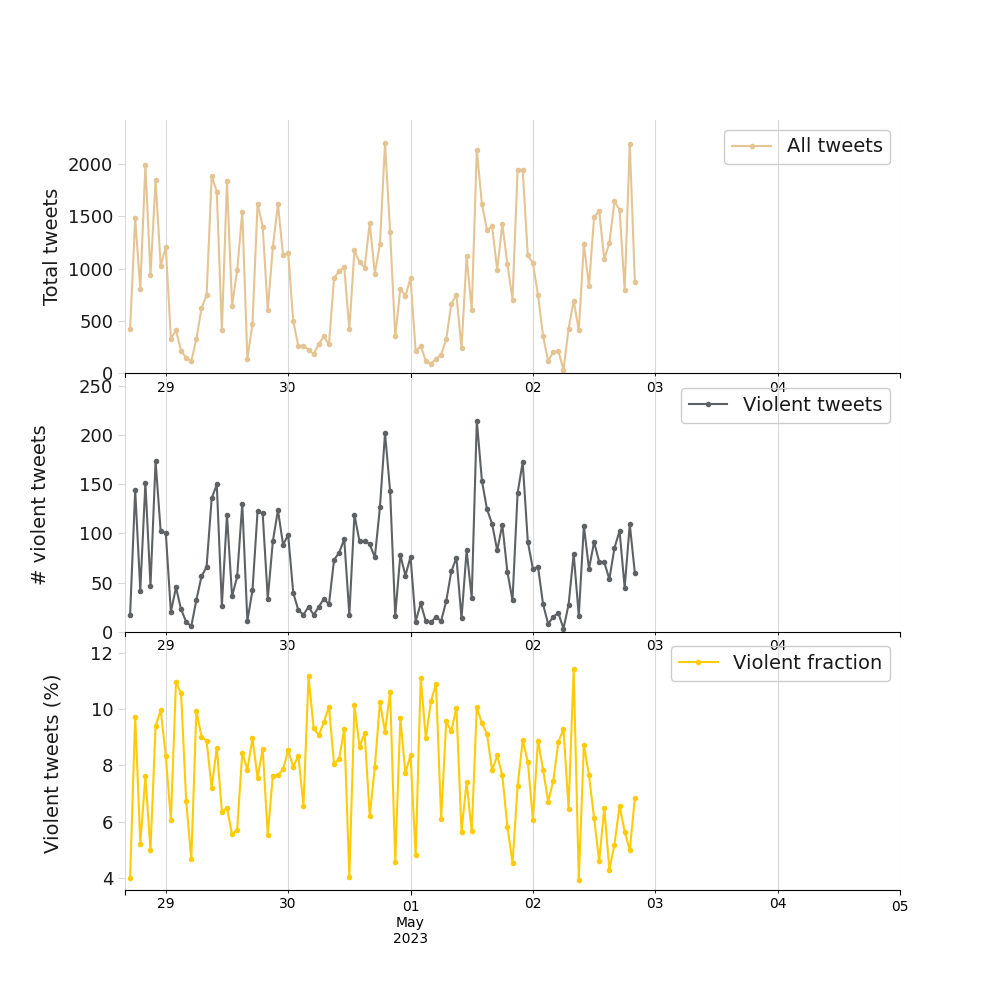
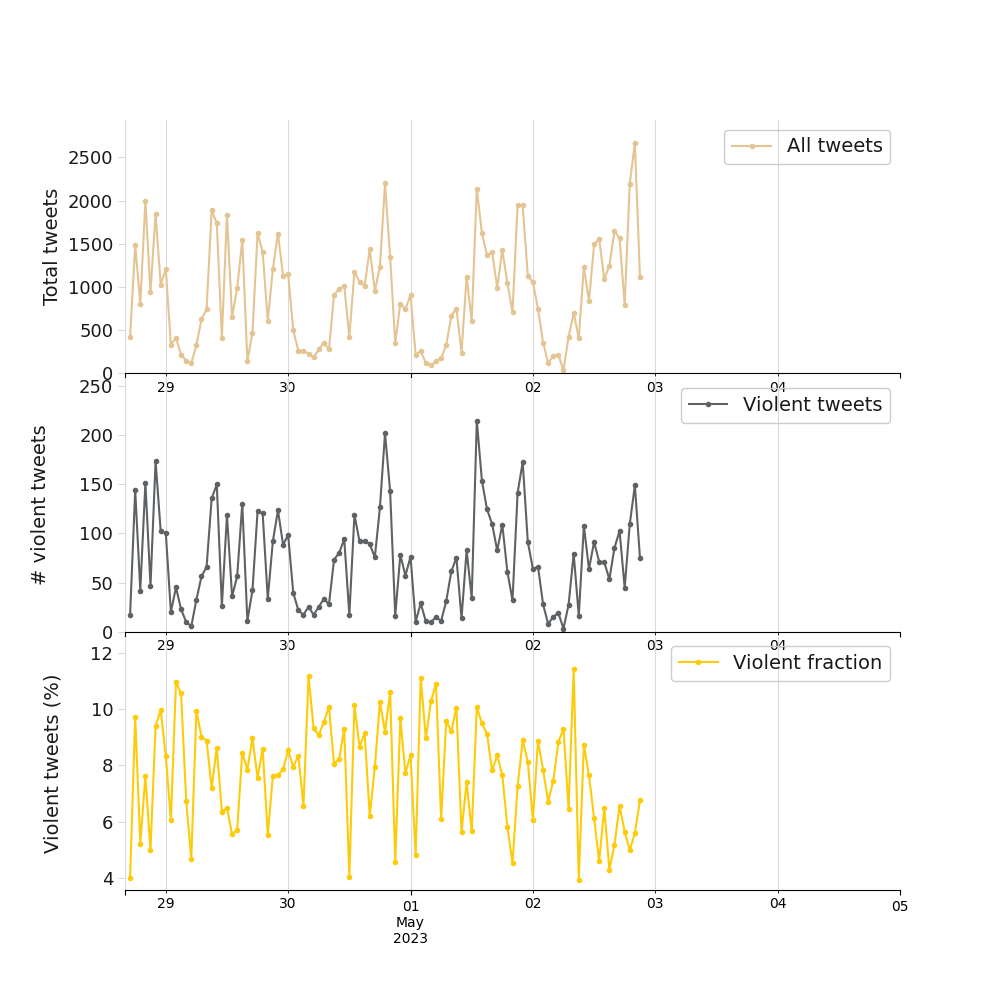
Auto-update webpage data >> 2023-05-02_21:00:08

Changed region(s): [[0.062, 0.124, 0.651, 0.372], [0.62, 0.496, 0.651, 0.558], [0.62, 0.806, 0.651, 0.837]]

diff --git a/assets/js/data.js b/assets/js/data.js
@@ -1,1 +1,1 @@
-data = '{"total_counts": 6921, "yesterday_counts": 1752, "time_series_plot": "../../assets/img/graficos/tweets_agressivos_por_dia_feminino.png", "last_update": "2023-05-02T20:00:07"}'
+data = '{"total_counts": 7086, "yesterday_counts": 1752, "time_series_plot": "../../assets/img/graficos/tweets_agressivos_por_dia_feminino.png", "last_update": "2023-05-02T21:00:08"}'
